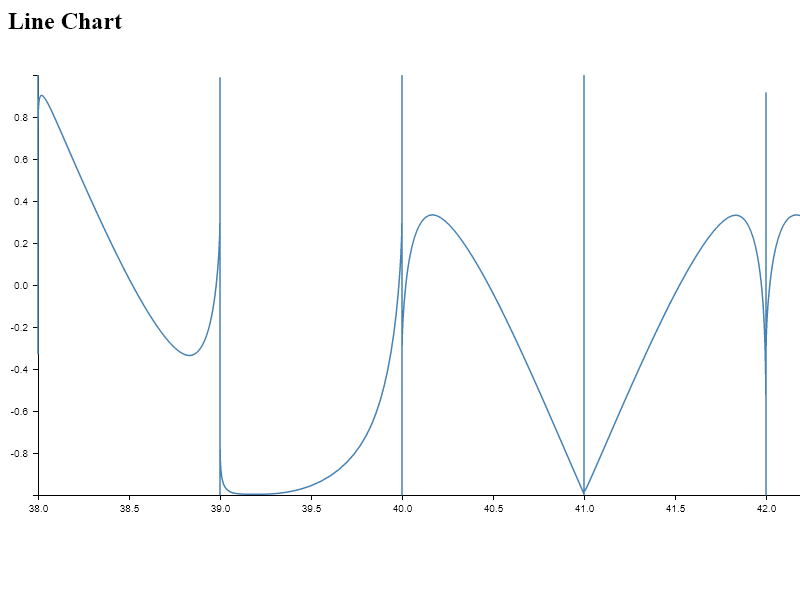
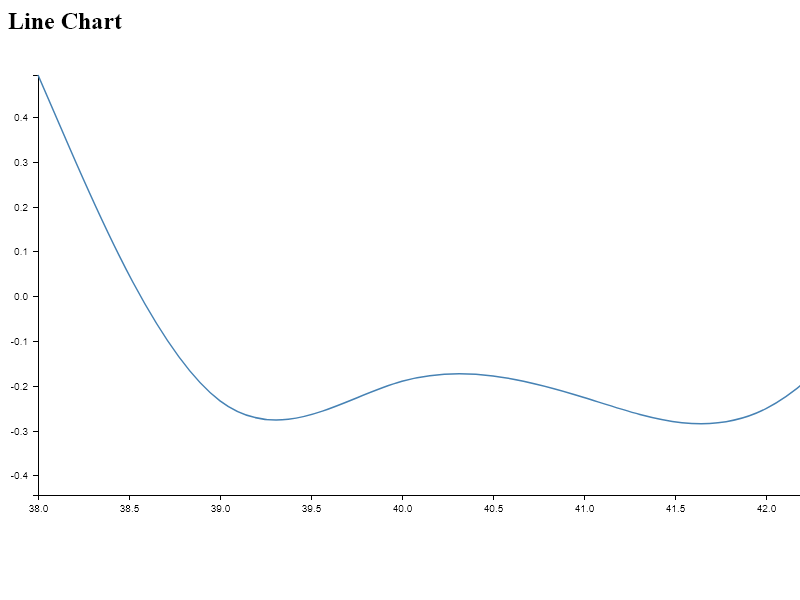
sql aggregation done

diff --git a/output/sentimentline.html b/output/sentimentline.html
@@ -1,5 +1,5 @@
 <html><head></head><body><div id="container">
       <h2>Line Chart</h2>
-      <div id="chart"><svg xmlns="http://www.w3.org/2000/svg" width="960" height="500"><g transform="translate(30, 20)"><g><g transform="translate(0, 420)" fill="none" font-size="10" font-family="sans-serif" text-anchor="middle"><path class="domain" stroke="#000" d="M0.5000,5V0.5000H910.5000V5"></path><g class="tick" opacity="1" transform="translate(0.5,0)"><line stroke="#000" y2="5"></line><text fill="#000" y="10" dy="0.71em">38.0</text></g><g class="tick" opacity="1" transform="translate(91.5,0)"><line stroke="#000" y2="5"></line><text fill="#000" y="10" dy="0.71em">38.5</text></g><g class="tick" opacity="1" transform="translate(182.5,0)"><line stroke="#000" y2="5"></line><text fill="#000" y="10" dy="0.71em">39.0</text></g><g class="tick" opacity="1" transform="translate(273.5,0)"><line stroke="#000" y2="5"></line><text fill="#000" y="10" dy="0.71em">39.5</text></g><g class="tick" opacity="1" transform="translate(364.5,0)"><line stroke="#000" y2="5"></line><text fill="#000" y="10" dy="0.71em">40.0</text></g><g class="tick" opacity="1" transform="translate(455.5,0)"><line stroke="#000" y2="5"></line><text fill="#000" y="10" dy="0.71em">40.5</text></g><g class="tick" opacity="1" transform="translate(546.5,0)"><line stroke="#000" y2="5"></line><text fill="#000" y="10" dy="0.71em">41.0</text></g><g class="tick" opacity="1" transform="translate(637.5,0)"><line stroke="#000" y2="5"></line><text fill="#000" y="10" dy="0.71em">41.5</text></g><g class="tick" opacity="1" transform="translate(728.5,0)"><line stroke="#000" y2="5"></line><text fill="#000" y="10" dy="0.71em">42.0</text></g><g class="tick" opacity="1" transform="translate(819.5,0)"><line stroke="#000" y2="5"></line><text fill="#000" y="10" dy="0.71em">42.5</text></g><g class="tick" opacity="1" transform="translate(910.5,0)"><line stroke="#000" y2="5"></line><text fill="#000" y="10" dy="0.71em">43.0</text></g></g><g fill="none" font-size="10" font-family="sans-serif" text-anchor="end"><path class="domain" stroke="#000" d="M-5,420.5000H0.5000V0.5000H-5"></path><g class="tick" opacity="1" transform="translate(0,378.5)"><line stroke="#000" x2="-5"></line><text fill="#000" x="-10" dy="0.32em">-0.8</text></g><g class="tick" opacity="1" transform="translate(0,336.5)"><line stroke="#000" x2="-5"></line><text fill="#000" x="-10" dy="0.32em">-0.6</text></g><g class="tick" opacity="1" transform="translate(0,294.5)"><line stroke="#000" x2="-5"></line><text fill="#000" x="-10" dy="0.32em">-0.4</text></g><g class="tick" opacity="1" transform="translate(0,252.5)"><line stroke="#000" x2="-5"></line><text fill="#000" x="-10" dy="0.32em">-0.2</text></g><g class="tick" opacity="1" transform="translate(0,210.5)"><line stroke="#000" x2="-5"></line><text fill="#000" x="-10" dy="0.32em">0.0</text></g><g class="tick" opacity="1" transform="translate(0,168.5)"><line stroke="#000" x2="-5"></line><text fill="#000" x="-10" dy="0.32em">0.2</text></g><g class="tick" opacity="1" transform="translate(0,126.5)"><line stroke="#000" x2="-5"></line><text fill="#000" x="-10" dy="0.32em">0.4</text></g><g class="tick" opacity="1" transform="translate(0,84.5)"><line stroke="#000" x2="-5"></line><text fill="#000" x="-10" dy="0.32em">0.6</text></g><g class="tick" opacity="1" transform="translate(0,42.5)"><line stroke="#000" x2="-5"></line><text fill="#000" x="-10" dy="0.32em">0.8</text></g></g><g fill="none" stroke-width="1.5"><path stroke="steelblue" d="M0,0L0,69.8333C0,139.6667,0,279.3333,0,279.3333C0,279.3333,0,139.6667,0,70.8333C0,2,0,4,30.3333,73.8333C60.6667,143.6667,121.3333,281.3333,151.6667,280.5000C182,279.6667,182,140.3333,182,140.1667C182,140,182,279,182,348.8333C182,418.6667,182,419.3333,182,350C182,280.6667,182,141.3333,182,141.3333C182,141.3333,182,280.6667,182,350.1667C182,419.6667,182,419.3333,182,419.1667C182,419,182,419,182,419C182,419,182,419,182,419C182,419,182,419,182,419.1667C182,419.3333,182,419.6667,182,419.6667C182,419.6667,182,419.3333,182,419.3333C182,419.3333,182,419.6667,182,419.5000C182,419.3333,182,418.6667,182,348.6667C182,278.6667,182,139.3333,182,139.5000C182,139.6667,182,279.3333,182,348.8333C182,418.3333,182,417.6667,182,417.8333C182,418,182,419,182,419.5000C182,420,182,420,182,420C182,420,182,420,182,420C182,420,182,420,182,420C182,420,182,420,182,350C182,280,182,140,182,70.6667C182,1.3333,182,2.6667,182,2.8333C182,3,182,2,182,71.3333C182,140.6667,182,280.3333,182,350.1667C182,420,182,420,182,420C182,420,182,420,182,420C182,420,182,420,182,420C182,420,182,420,182,420C182,420,182,420,182,419.8333C182,419.6667,182,419.3333,182,418.8333C182,418.3333,182,417.6667,182,417.6667C182,417.6667,182,418.3333,182,418.6667C182,419,182,419,182,349.6667C182,280.3333,182,141.6667,182,141.6667C182,141.6667,182,280.3333,182,349.6667C182,419,182,419,182,418.8333C182,418.6667,182,418.3333,182,418.5000C182,418.6667,182,419.3333,182,349.6667C182,280,182,140,182,140C182,140,182,280,182,280C182,280,182,140,182,70C182,0,182,0,182,69.8333C182,139.6667,182,279.3333,182,349.3333C182,419.3333,182,419.6667,182,419.3333C182,419,182,418,182,348C182,278,182,139,182,138.8333C182,138.6667,182,277.3333,182,277.3333C182,277.3333,182,138.6667,182,139.3333C182,140,182,280,182,280.1667C182,280.3333,182,140.6667,182,70.8333C182,1,182,1,182,10.5000C182,20,182,39,182,40.1667C182,41.3333,182,24.6667,182,84.8333C182,145,182,282,182,350.5000C182,419,182,419,182,419.1667C182,419.3333,182,419.6667,182,350.5000C182,281.3333,182,142.6667,182,142.6667C182,142.6667,182,281.3333,182,350.6667C182,420,182,420,182,350C182,280,182,140,182,139.8333C182,139.6667,182,279.3333,182,349.1667C182,419,182,419,182,418.6667C182,418.3333,182,417.6667,182,347.8333C182,278,182,139,182,139C182,139,182,278,182,348C182,418,182,419,212.3333,419.3333C242.6667,419.6667,303.3333,419.3333,333.6667,349.3333C364,279.3333,364,139.6667,364,139.5000C364,139.3333,364,278.6667,364,278.6667C364,278.6667,364,139.3333,364,139.6667C364,140,364,280,364,280C364,280,364,140,364,70C364,0,364,0,364,69.6667C364,139.3333,364,278.6667,364,347.6667C364,416.6667,364,415.3333,364,415.6667C364,416,364,418,364,418.8333C364,419.6667,364,419.3333,364,349.3333C364,279.3333,364,139.6667,364,139.8333C364,140,364,280,364,350C364,420,364,420,364,419.8333C364,419.6667,364,419.3333,364,419C364,418.6667,364,418.3333,364,348.8333C364,279.3333,364,140.6667,364,72.6667C364,4.6667,364,7.3333,364,76.8333C364,146.3333,364,282.6667,364,351C364,419.3333,364,419.6667,364,349.8333C364,280,364,140,364,138.6667C364,137.3333,364,274.6667,364,344.3333C364,414,364,416,364,417.3333C364,418.6667,364,419.3333,364,419.5000C364,419.6667,364,419.3333,364,419.3333C364,419.3333,364,419.6667,364,419.5000C364,419.3333,364,418.6667,364,418.6667C364,418.6667,364,419.3333,364,351C364,282.6667,364,145.3333,364,75.3333C364,5.3333,364,2.6667,364,1.5000C364,0.3333,364,0.6667,364,0.8333C364,1,364,1,364,5.1667C364,9.3333,364,17.6667,364,17.5000C364,17.3333,364,8.6667,364,4.8333C364,1,364,2,364,71.5000C364,141,364,279,364,348.3333C364,417.6667,364,418.3333,364,418.8333C364,419.3333,364,419.6667,364,349.8333C364,280,364,140,364,70.1667C364,0.3333,364,0.6667,364,70.6667C364,140.6667,364,280.3333,364,350.1667C364,420,364,420,364,350C364,280,364,140,364,140C364,140,364,280,364,350C364,420,364,420,364,420C364,420,364,420,364,420C364,420,364,420,364,420C364,420,364,420,364,419.6667C364,419.3333,364,418.6667,364,348.6667C364,278.6667,364,139.3333,364,69.8333C364,0.3333,364,0.6667,364,70.6667C364,140.6667,364,280.3333,364,280.1667C364,280,364,140,364,70C364,0,364,0,364,1C364,2,364,4,364,4C364,4,364,2,364,1.5000C364,1,364,2,364,2C364,2,364,1,364,70.1667C364,139.3333,364,278.6667,364,278.8333C364,279,364,140,364,140.3333C364,140.6667,364,280.3333,364,350C364,419.6667,364,419.3333,364,419.3333C364,419.3333,364,419.6667,364,350.1667C364,280.6667,364,141.3333,364,141.3333C364,141.3333,364,280.6667,364,280.3333C364,280,364,140,364,140C364,140,364,280,364,280C364,280,364,140,394.3333,139.8333C424.6667,139.6667,485.3333,279.3333,515.6667,349.1667C546,419,546,419,546,419C546,419,546,419,546,349.1667C546,279.3333,546,139.6667,546,70.5000C546,1.3333,546,2.6667,546,72.6667C546,142.6667,546,281.3333,546,281C546,280.6667,546,141.3333,546,71.5000C546,1.6667,546,1.3333,546,71C546,140.6667,546,280.3333,546,350.1667C546,420,546,420,546,420C546,420,546,420,546,420C546,420,546,420,546,419.8333C546,419.6667,546,419.3333,546,349.3333C546,279.3333,546,139.6667,546,139.8333C546,140,546,280,546,349.8333C546,419.6667,546,419.3333,546,419.1667C546,419,546,419,546,349.1667C546,279.3333,546,139.6667,546,139.6667C546,139.6667,546,279.3333,546,279.8333C546,280.3333,546,141.6667,546,71.8333C546,2,546,1,546,0.6667C546,0.3333,546,0.6667,546,0.8333C546,1,546,1,546,70.5000C546,140,546,279,546,278.8333C546,278.6667,546,139.3333,546,69.8333C546,0.3333,546,0.6667,546,70.5000C546,140.3333,546,279.6667,546,349.3333C546,419,546,419,546,349.6667C546,280.3333,546,141.6667,546,141.8333C546,142,546,281,546,350.1667C546,419.3333,546,418.6667,546,364.1667C546,309.6667,546,201.3333,546,201.5000C546,201.6667,546,310.3333,546,364.8333C546,419.3333,546,419.6667,546,419.6667C546,419.6667,546,419.3333,546,349.5000C546,279.6667,546,140.3333,546,140.5000C546,140.6667,546,280.3333,546,350C546,419.6667,546,419.3333,546,349.3333C546,279.3333,546,139.6667,546,139.8333C546,140,546,280,546,280.1667C546,280.3333,546,140.6667,546,140.6667C546,140.6667,546,280.3333,546,280.5000C546,280.6667,546,141.3333,546,72C546,2.6667,546,3.3333,546,3C546,2.6667,546,1.3333,546,70.6667C546,140,546,280,546,350C546,420,546,420,546,418.5000C546,417,546,414,546,414C546,414,546,417,546,348.5000C546,280,546,140,546,71.1667C546,2.3333,546,4.6667,546,73.1667C546,141.6667,546,276.3333,546,345C546,413.6667,546,416.3333,546,417C546,417.6667,546,416.3333,546,346.5000C546,276.6667,546,138.3333,546,69.5000C546,0.6667,546,1.3333,546,71.3333C546,141.3333,546,280.6667,546,350C546,419.3333,546,418.6667,546,413.1667C546,407.6667,546,397.3333,546,397.6667C546,398,546,409,546,414.3333C546,419.6667,546,419.3333,576.3333,349.5000C606.6667,279.6667,667.3333,140.3333,697.6667,140.1667C728,140,728,279,728,348.6667C728,418.3333,728,418.6667,728,418.8333C728,419,728,419,728,349.1667C728,279.3333,728,139.6667,728,139.1667C728,138.6667,728,277.3333,728,278C728,278.6667,728,141.3333,728,141.5000C728,141.6667,728,279.3333,728,348.6667C728,418,728,419,728,419.5000C728,420,728,420,728,350C728,280,728,140,728,140C728,140,728,280,728,350C728,420,728,420,728,420C728,420,728,420,728,419.8333C728,419.6667,728,419.3333,728,419.3333C728,419.3333,728,419.6667,728,419.8333C728,420,728,420,728,350C728,280,728,140,728,70.1667C728,0.3333,728,0.6667,728,70.6667C728,140.6667,728,280.3333,728,350C728,419.6667,728,419.3333,728,419.3333C728,419.3333,728,419.6667,728,419.8333C728,420,728,420,728,419.8333C728,419.6667,728,419.3333,728,349.3333C728,279.3333,728,139.6667,728,139.8333C728,140,728,280,728,349.8333C728,419.6667,728,419.3333,728,349.6667C728,280,728,141,728,72C728,3,728,4,728,73.6667C728,143.3333,728,281.6667,728,281.1667C728,280.6667,728,141.3333,728,71.6667C728,2,728,2,728,71.5000C728,141,728,280,728,280C728,280,728,141,728,71.1667C728,1.3333,728,0.6667,728,70.3333C728,140,728,280,728,350C728,420,728,420,728,419.8333C728,419.6667,728,419.3333,728,419.3333C728,419.3333,728,419.6667,728,419.8333C728,420,728,420,728,350.1667C728,280.3333,728,140.6667,728,140.6667C728,140.6667,728,280.3333,728,350C728,419.6667,728,419.3333,728,419.3333C728,419.3333,728,419.6667,728,419.8333C728,420,728,420,728,420C728,420,728,420,728,420C728,420,728,420,728,351C728,282,728,144,728,143.8333C728,143.6667,728,281.3333,728,280.6667C728,280,728,141,728,72C728,3,728,4,728,73.3333C728,142.6667,728,280.3333,728,279.6667C728,279,728,140,728,140C728,140,728,279,728,348.5000C728,418,728,418,728,418.1667C728,418.3333,728,418.6667,728,412.1667C728,405.6667,728,392.3333,728,392.1667C728,392,728,405,728,411.8333C728,418.6667,728,419.3333,728,419.5000C728,419.6667,728,419.3333,728,419.3333C728,419.3333,728,419.6667,728,350C728,280.3333,728,140.6667,728,140.6667C728,140.6667,728,280.3333,728,280.1667C728,280,728,140,758.3333,139.8333C788.6667,139.6667,849.3333,279.3333,879.6667,349.3333C910,419.3333,910,419.6667,910,350C910,280.3333,910,140.6667,910,70.6667C910,0.6667,910,0.3333,910,0.1667C910,0,910,0,910,0L910,0"></path></g></g></g></svg></div>
+      <div id="chart"><svg xmlns="http://www.w3.org/2000/svg" width="960" height="500"><g transform="translate(30, 20)"><g><g transform="translate(0, 420)" fill="none" font-size="10" font-family="sans-serif" text-anchor="middle"><path class="domain" stroke="#000" d="M0.5000,5V0.5000H910.5000V5"></path><g class="tick" opacity="1" transform="translate(0.5,0)"><line stroke="#000" y2="5"></line><text fill="#000" y="10" dy="0.71em">38.0</text></g><g class="tick" opacity="1" transform="translate(91.5,0)"><line stroke="#000" y2="5"></line><text fill="#000" y="10" dy="0.71em">38.5</text></g><g class="tick" opacity="1" transform="translate(182.5,0)"><line stroke="#000" y2="5"></line><text fill="#000" y="10" dy="0.71em">39.0</text></g><g class="tick" opacity="1" transform="translate(273.5,0)"><line stroke="#000" y2="5"></line><text fill="#000" y="10" dy="0.71em">39.5</text></g><g class="tick" opacity="1" transform="translate(364.5,0)"><line stroke="#000" y2="5"></line><text fill="#000" y="10" dy="0.71em">40.0</text></g><g class="tick" opacity="1" transform="translate(455.5,0)"><line stroke="#000" y2="5"></line><text fill="#000" y="10" dy="0.71em">40.5</text></g><g class="tick" opacity="1" transform="translate(546.5,0)"><line stroke="#000" y2="5"></line><text fill="#000" y="10" dy="0.71em">41.0</text></g><g class="tick" opacity="1" transform="translate(637.5,0)"><line stroke="#000" y2="5"></line><text fill="#000" y="10" dy="0.71em">41.5</text></g><g class="tick" opacity="1" transform="translate(728.5,0)"><line stroke="#000" y2="5"></line><text fill="#000" y="10" dy="0.71em">42.0</text></g><g class="tick" opacity="1" transform="translate(819.5,0)"><line stroke="#000" y2="5"></line><text fill="#000" y="10" dy="0.71em">42.5</text></g><g class="tick" opacity="1" transform="translate(910.5,0)"><line stroke="#000" y2="5"></line><text fill="#000" y="10" dy="0.71em">43.0</text></g></g><g fill="none" font-size="10" font-family="sans-serif" text-anchor="end"><path class="domain" stroke="#000" d="M-5,420.5000H0.5000V0.5000H-5"></path><g class="tick" opacity="1" transform="translate(0,400.5)"><line stroke="#000" x2="-5"></line><text fill="#000" x="-10" dy="0.32em">-0.4</text></g><g class="tick" opacity="1" transform="translate(0,356.5)"><line stroke="#000" x2="-5"></line><text fill="#000" x="-10" dy="0.32em">-0.3</text></g><g class="tick" opacity="1" transform="translate(0,311.5)"><line stroke="#000" x2="-5"></line><text fill="#000" x="-10" dy="0.32em">-0.2</text></g><g class="tick" opacity="1" transform="translate(0,266.5)"><line stroke="#000" x2="-5"></line><text fill="#000" x="-10" dy="0.32em">-0.1</text></g><g class="tick" opacity="1" transform="translate(0,221.5)"><line stroke="#000" x2="-5"></line><text fill="#000" x="-10" dy="0.32em">0.0</text></g><g class="tick" opacity="1" transform="translate(0,176.5)"><line stroke="#000" x2="-5"></line><text fill="#000" x="-10" dy="0.32em">0.1</text></g><g class="tick" opacity="1" transform="translate(0,132.5)"><line stroke="#000" x2="-5"></line><text fill="#000" x="-10" dy="0.32em">0.2</text></g><g class="tick" opacity="1" transform="translate(0,87.5)"><line stroke="#000" x2="-5"></line><text fill="#000" x="-10" dy="0.32em">0.3</text></g><g class="tick" opacity="1" transform="translate(0,42.5)"><line stroke="#000" x2="-5"></line><text fill="#000" x="-10" dy="0.32em">0.4</text></g></g><g fill="none" stroke-width="1.5"><path stroke="steelblue" d="M0,0L30.3333,70C60.6667,140,121.3333,280,182,325.8333C242.6667,371.6667,303.3333,323.3333,364,306.3333C424.6667,289.3333,485.3333,303.6667,546,322.5000C606.6667,341.3333,667.3333,364.6667,728,333.6667C788.6667,302.6667,849.3333,217.3333,879.6667,174.6667L910,132"></path></g></g></g></svg></div>
     </div>
   </body></html>

diff --git a/index.js b/index.js
@@ -1,10 +1,6 @@
 function main(datasetId = "my_dataset", tableId = "my_table") {
-  // [START bigquery_get_table]
-  // Import the Google Cloud client library
   const { BigQuery } = require("@google-cloud/bigquery");
   const bigquery = new BigQuery();
-  // const D3Node = require('d3-node')
-  // const d3n = new D3Node()      // initializes D3 with container element
   const d3 = require("d3-node")().d3;
   const d3nBar = require("d3node-barchart");
   const d3nLine = require("d3node-linechart");
@@ -13,11 +9,6 @@ function main(datasetId = "my_dataset", tableId = "my_table") {
   const fs = require("fs");
 
   async function getTable() {
-    // Retrieves table named "my_table" in "my_dataset".
-
-    /**
-     * TODO(developer): Uncomment the following lines before running the sample
-     */
     const projectId = "starry-argon-368412";
     const datasetId = "news";
     const tableId = "predictions";
@@ -26,46 +17,92 @@ function main(datasetId = "my_dataset", tableId = "my_table") {
     const dataset = bigquery.dataset(datasetId);
     const [table] = await dataset.table(tableId).get();
 
-    const sqlQuery = `select subquery.week as key, avg(subquery.sentimentscore) as value from (SELECT 
-    extract(week from timestamp_seconds(cast(timestamp as int64))) as week, 
-    sentiment, cast(timestamp as int64) as intval,
-    case sentiment
-      when 'POSITIVE' then score
-      else -1*score
-      end
-      as sentimentscore
-      FROM \`${projectId}.${datasetId}.${tableId}\` order by key asc) as subquery group by week`;
+    const dailyQuery = `with
+      sentimentScores as (
+        SELECT 
+          extract(dayofyear from timestamp_seconds(cast(timestamp as int64))) as dayofyear, 
+          sentiment, cast(timestamp as int64) as intval,
+          case sentiment
+            when 'POSITIVE' then score
+            else -1*score
+            end
+            as sentimentscore
+            FROM \`${projectId}.${datasetId}.${tableId}\` order by dayofyear asc)
+    select dayofyear as key, avg(sentimentscore) as value from sentimentScores group by dayofyear order by dayofyear asc 
+            `;
 
-    const options = {
-      query: sqlQuery,
+    const weeklyQuery = `with
+      sentimentScores as (
+        SELECT 
+          extract(week from timestamp_seconds(cast(timestamp as int64))) as week, 
+          sentiment, cast(timestamp as int64) as intval,
+          case sentiment
+            when 'POSITIVE' then score
+            else -1*score
+            end
+            as sentimentscore
+            FROM \`${projectId}.${datasetId}.${tableId}\` order by week asc)
+    select week as key, avg(sentimentscore) as value from sentimentScores group by week order by week asc 
+            `;
+
+    const monthlyQuery = `with
+      sentimentScores as (
+        SELECT 
+          extract(month from timestamp_seconds(cast(timestamp as int64))) as month, 
+          sentiment, cast(timestamp as int64) as intval,
+          case sentiment
+            when 'POSITIVE' then score
+            else -1*score
+            end
+            as sentimentscore
+            FROM \`${projectId}.${datasetId}.${tableId}\` order by month asc)
+    select month as key, avg(sentimentscore) as value from sentimentScores group by month order by month asc 
+            `;
+
+    const dailyOptions = {
+      query: dailyQuery,
       // Location must match that of the dataset(s) referenced in the query.
     };
 
-    const [rows] = await bigquery.query(options);
-    console.log("Table:");
-    //console.log(table.getRows());
-    console.log(rows);
-    // for (let i = 0; i < rows.length; i++){
-    //   timestamps[i] = rows[i]['timestamp']
-    //   sentiments[i] = rows[i]['sentiment']
-    // }
-    // console.log(timestamps);
-    //data = d3.json(rows)
-    //console.log(typeof data)
-    // const path = `data/bardata.csv`;
-    // //const data = [{ name: 'Stevie', id: 10 }, { name: 'Ray', id: 20 }];
-    // const options2 = { headers: true, quoteColumns: true };
+    const weeklyOptions = {
+      query: weeklyQuery,
+      // Location must match that of the dataset(s) referenced in the query.
+    };
 
-    // writeToPath(path, rows, options)
-    //   .on("error", (err) => console.error(err))
-    //   .on("finish", () => console.log("Done writing."));
+    const monthlyOptions = {
+      query: monthlyQuery,
+      // Location must match that of the dataset(s) referenced in the query.
+    };
 
-    // const csvString = fs.readFileSync("data/bardata.csv").toString();
-    // const data = d3.csvParse(csvString);
-    //output('./output/sentimentbar', d3nBar({ data: data }));
-    output("output/sentimentline", d3nLine({ data: rows }));
+    const [daily] = await bigquery.query(dailyOptions);
+    // console.log("daily:");
+    // //console.log(table.getRows());
+    // console.log(daily);
+    const [weekly] = await bigquery.query(weeklyOptions);
+    const [monthly] = await bigquery.query(monthlyOptions);
+
+    dailyContainer =
+      '<div id="container"><h2>Daily average sentiment (day of year)</h2><div id="chart"></div></div>';
+    weeklyContainer =
+      '<div id="container"><h2>Weekly average sentiment</h2><div id="chart"></div></div>';
+    monthlyContainer =
+      '<div id="container"><h2>Monthly average sentiment (month number)</h2><div id="chart"></div></div>';
+    // dailyStyle =
+    //   { xAxis: 'Sentiment score', yAxis: 'Day of year' };
+
+    output(
+      "output/sentimentdaily",
+      d3nLine({ data: daily, container: dailyContainer })
+    );
+    output(
+      "output/sentimentweekly",
+      d3nLine({ data: weekly, container: weeklyContainer })
+    );
+    output(
+      "output/sentimentmonthly",
+      d3nLine({ data: monthly, container: monthlyContainer })
+    );
   }
   getTable();
-  // [END bigquery_get_table]
 }
 main(...process.argv.slice(2));

diff --git a/output/sentimentdaily.html b/output/sentimentdaily.html
@@ -1,0 +1,1 @@
+<html><head></head><body><div id="container"><h2>Daily average sentiment (day of year)</h2><div id="chart"><svg xmlns="http://www.w3.org/2000/svg" width="960" height="500"><g transform="translate(30, 20)"><g><g transform="translate(0, 420)" fill="none" font-size="10" font-family="sans-serif" text-anchor="middle"><path class="domain" stroke="#000" d="M0.5000,5V0.5000H910.5000V5"></path><g class="tick" opacity="1" transform="translate(31.5,0)"><line stroke="#000" y2="5"></line><text fill="#000" y="10" dy="0.71em">268</text></g><g class="tick" opacity="1" transform="translate(94.5,0)"><line stroke="#000" y2="5"></line><text fill="#000" y="10" dy="0.71em">270</text></g><g class="tick" opacity="1" transform="translate(157.5,0)"><line stroke="#000" y2="5"></line><text fill="#000" y="10" dy="0.71em">272</text></g><g class="tick" opacity="1" transform="translate(220.5,0)"><line stroke="#000" y2="5"></line><text fill="#000" y="10" dy="0.71em">274</text></g><g class="tick" opacity="1" transform="translate(282.5,0)"><line stroke="#000" y2="5"></line><text fill="#000" y="10" dy="0.71em">276</text></g><g class="tick" opacity="1" transform="translate(345.5,0)"><line stroke="#000" y2="5"></line><text fill="#000" y="10" dy="0.71em">278</text></g><g class="tick" opacity="1" transform="translate(408.5,0)"><line stroke="#000" y2="5"></line><text fill="#000" y="10" dy="0.71em">280</text></g><g class="tick" opacity="1" transform="translate(471.5,0)"><line stroke="#000" y2="5"></line><text fill="#000" y="10" dy="0.71em">282</text></g><g class="tick" opacity="1" transform="translate(533.5,0)"><line stroke="#000" y2="5"></line><text fill="#000" y="10" dy="0.71em">284</text></g><g class="tick" opacity="1" transform="translate(596.5,0)"><line stroke="#000" y2="5"></line><text fill="#000" y="10" dy="0.71em">286</text></g><g class="tick" opacity="1" transform="translate(659.5,0)"><line stroke="#000" y2="5"></line><text fill="#000" y="10" dy="0.71em">288</text></g><g class="tick" opacity="1" transform="translate(722.5,0)"><line stroke="#000" y2="5"></line><text fill="#000" y="10" dy="0.71em">290</text></g><g class="tick" opacity="1" transform="translate(784.5,0)"><line stroke="#000" y2="5"></line><text fill="#000" y="10" dy="0.71em">292</text></g><g class="tick" opacity="1" transform="translate(847.5,0)"><line stroke="#000" y2="5"></line><text fill="#000" y="10" dy="0.71em">294</text></g><g class="tick" opacity="1" transform="translate(910.5,0)"><line stroke="#000" y2="5"></line><text fill="#000" y="10" dy="0.71em">296</text></g></g><g fill="none" font-size="10" font-family="sans-serif" text-anchor="end"><path class="domain" stroke="#000" d="M-5,420.5000H0.5000V0.5000H-5"></path><g class="tick" opacity="1" transform="translate(0,365.5)"><line stroke="#000" x2="-5"></line><text fill="#000" x="-10" dy="0.32em">-0.8</text></g><g class="tick" opacity="1" transform="translate(0,308.5)"><line stroke="#000" x2="-5"></line><text fill="#000" x="-10" dy="0.32em">-0.6</text></g><g class="tick" opacity="1" transform="translate(0,252.5)"><line stroke="#000" x2="-5"></line><text fill="#000" x="-10" dy="0.32em">-0.4</text></g><g class="tick" opacity="1" transform="translate(0,196.5)"><line stroke="#000" x2="-5"></line><text fill="#000" x="-10" dy="0.32em">-0.2</text></g><g class="tick" opacity="1" transform="translate(0,139.5)"><line stroke="#000" x2="-5"></line><text fill="#000" x="-10" dy="0.32em">0.0</text></g><g class="tick" opacity="1" transform="translate(0,83.5)"><line stroke="#000" x2="-5"></line><text fill="#000" x="-10" dy="0.32em">0.2</text></g><g class="tick" opacity="1" transform="translate(0,26.5)"><line stroke="#000" x2="-5"></line><text fill="#000" x="-10" dy="0.32em">0.4</text></g></g><g fill="none" stroke-width="1.5"><path stroke="steelblue" d="M0,0L5.1667,32.5000C10.3333,65,20.6667,130,31.1667,200C41.6667,270,52.3333,345,62.8333,359.1667C73.3333,373.3333,83.6667,326.6667,94.1667,317.3333C104.6667,308,115.3333,336,125.8333,319.1667C136.3333,302.3333,146.6667,240.6667,157,204C167.3333,167.3333,177.6667,155.6667,188.1667,180C198.6667,204.3333,209.3333,264.6667,219.8333,257.1667C230.3333,249.6667,240.6667,174.3333,251,164.6667C261.3333,155,271.6667,211,282.1667,252.5000C292.6667,294,303.3333,321,313.8333,287.6667C324.3333,254.3333,334.6667,160.6667,345.1667,139.3333C355.6667,118,366.3333,169,376.8333,170.3333C387.3333,171.6667,397.6667,123.3333,408,109.8333C418.3333,96.3333,428.6667,117.6667,439.1667,144.1667C449.6667,170.6667,460.3333,202.3333,470.8333,218C481.3333,233.6667,491.6667,233.3333,502,221.1667C512.3333,209,522.6667,185,533.1667,165.1667C543.6667,145.3333,554.3333,129.6667,564.8333,141.6667C575.3333,153.6667,585.6667,193.3333,596.1667,206.3333C606.6667,219.3333,617.3333,205.6667,627.8333,235.3333C638.3333,265,648.6667,338,659,352.5000C669.3333,367,679.6667,323,690.1667,262C700.6667,201,711.3333,123,721.8333,127.6667C732.3333,132.3333,742.6667,219.6667,753,262.1667C763.3333,304.6667,773.6667,302.3333,784.1667,290C794.6667,277.6667,805.3333,255.3333,815.8333,246C826.3333,236.6667,836.6667,240.3333,847.1667,224.6667C857.6667,209,868.3333,174,878.8333,147.1667C889.3333,120.3333,899.6667,101.6667,904.8333,92.3333L910,83"></path></g></g></g></svg></div></div></body></html>

diff --git a/output/sentimentmonthly.html b/output/sentimentmonthly.html
@@ -1,0 +1,1 @@
+<html><head></head><body><div id="container"><h2>Monthly average sentiment (month number)</h2><div id="chart"><svg xmlns="http://www.w3.org/2000/svg" width="960" height="500"><g transform="translate(30, 20)"><g><g transform="translate(0, 420)" fill="none" font-size="10" font-family="sans-serif" text-anchor="middle"><path class="domain" stroke="#000" d="M0.5000,5V0.5000H910.5000V5"></path><g class="tick" opacity="1" transform="translate(0.5,0)"><line stroke="#000" y2="5"></line><text fill="#000" y="10" dy="0.71em">9.0</text></g><g class="tick" opacity="1" transform="translate(91.5,0)"><line stroke="#000" y2="5"></line><text fill="#000" y="10" dy="0.71em">9.1</text></g><g class="tick" opacity="1" transform="translate(182.5,0)"><line stroke="#000" y2="5"></line><text fill="#000" y="10" dy="0.71em">9.2</text></g><g class="tick" opacity="1" transform="translate(273.5,0)"><line stroke="#000" y2="5"></line><text fill="#000" y="10" dy="0.71em">9.3</text></g><g class="tick" opacity="1" transform="translate(364.5,0)"><line stroke="#000" y2="5"></line><text fill="#000" y="10" dy="0.71em">9.4</text></g><g class="tick" opacity="1" transform="translate(455.5,0)"><line stroke="#000" y2="5"></line><text fill="#000" y="10" dy="0.71em">9.5</text></g><g class="tick" opacity="1" transform="translate(546.5,0)"><line stroke="#000" y2="5"></line><text fill="#000" y="10" dy="0.71em">9.6</text></g><g class="tick" opacity="1" transform="translate(637.5,0)"><line stroke="#000" y2="5"></line><text fill="#000" y="10" dy="0.71em">9.7</text></g><g class="tick" opacity="1" transform="translate(728.5,0)"><line stroke="#000" y2="5"></line><text fill="#000" y="10" dy="0.71em">9.8</text></g><g class="tick" opacity="1" transform="translate(819.5,0)"><line stroke="#000" y2="5"></line><text fill="#000" y="10" dy="0.71em">9.9</text></g><g class="tick" opacity="1" transform="translate(910.5,0)"><line stroke="#000" y2="5"></line><text fill="#000" y="10" dy="0.71em">10.0</text></g></g><g fill="none" font-size="10" font-family="sans-serif" text-anchor="end"><path class="domain" stroke="#000" d="M-5,420.5000H0.5000V0.5000H-5"></path><g class="tick" opacity="1" transform="translate(0,397.5)"><line stroke="#000" x2="-5"></line><text fill="#000" x="-10" dy="0.32em">-0.36</text></g><g class="tick" opacity="1" transform="translate(0,365.5)"><line stroke="#000" x2="-5"></line><text fill="#000" x="-10" dy="0.32em">-0.35</text></g><g class="tick" opacity="1" transform="translate(0,333.5)"><line stroke="#000" x2="-5"></line><text fill="#000" x="-10" dy="0.32em">-0.34</text></g><g class="tick" opacity="1" transform="translate(0,301.5)"><line stroke="#000" x2="-5"></line><text fill="#000" x="-10" dy="0.32em">-0.33</text></g><g class="tick" opacity="1" transform="translate(0,269.5)"><line stroke="#000" x2="-5"></line><text fill="#000" x="-10" dy="0.32em">-0.32</text></g><g class="tick" opacity="1" transform="translate(0,237.5)"><line stroke="#000" x2="-5"></line><text fill="#000" x="-10" dy="0.32em">-0.31</text></g><g class="tick" opacity="1" transform="translate(0,205.5)"><line stroke="#000" x2="-5"></line><text fill="#000" x="-10" dy="0.32em">-0.30</text></g><g class="tick" opacity="1" transform="translate(0,173.5)"><line stroke="#000" x2="-5"></line><text fill="#000" x="-10" dy="0.32em">-0.29</text></g><g class="tick" opacity="1" transform="translate(0,141.5)"><line stroke="#000" x2="-5"></line><text fill="#000" x="-10" dy="0.32em">-0.28</text></g><g class="tick" opacity="1" transform="translate(0,109.5)"><line stroke="#000" x2="-5"></line><text fill="#000" x="-10" dy="0.32em">-0.27</text></g><g class="tick" opacity="1" transform="translate(0,77.5)"><line stroke="#000" x2="-5"></line><text fill="#000" x="-10" dy="0.32em">-0.26</text></g><g class="tick" opacity="1" transform="translate(0,45.5)"><line stroke="#000" x2="-5"></line><text fill="#000" x="-10" dy="0.32em">-0.25</text></g><g class="tick" opacity="1" transform="translate(0,13.5)"><line stroke="#000" x2="-5"></line><text fill="#000" x="-10" dy="0.32em">-0.24</text></g></g><g fill="none" stroke-width="1.5"><path stroke="steelblue" d="M0,420L910,0"></path></g></g></g></svg></div></div></body></html>

diff --git a/output/sentimentweekly.html b/output/sentimentweekly.html
@@ -1,0 +1,1 @@
+<html><head></head><body><div id="container"><h2>Weekly average sentiment</h2><div id="chart"><svg xmlns="http://www.w3.org/2000/svg" width="960" height="500"><g transform="translate(30, 20)"><g><g transform="translate(0, 420)" fill="none" font-size="10" font-family="sans-serif" text-anchor="middle"><path class="domain" stroke="#000" d="M0.5000,5V0.5000H910.5000V5"></path><g class="tick" opacity="1" transform="translate(0.5,0)"><line stroke="#000" y2="5"></line><text fill="#000" y="10" dy="0.71em">38.0</text></g><g class="tick" opacity="1" transform="translate(91.5,0)"><line stroke="#000" y2="5"></line><text fill="#000" y="10" dy="0.71em">38.5</text></g><g class="tick" opacity="1" transform="translate(182.5,0)"><line stroke="#000" y2="5"></line><text fill="#000" y="10" dy="0.71em">39.0</text></g><g class="tick" opacity="1" transform="translate(273.5,0)"><line stroke="#000" y2="5"></line><text fill="#000" y="10" dy="0.71em">39.5</text></g><g class="tick" opacity="1" transform="translate(364.5,0)"><line stroke="#000" y2="5"></line><text fill="#000" y="10" dy="0.71em">40.0</text></g><g class="tick" opacity="1" transform="translate(455.5,0)"><line stroke="#000" y2="5"></line><text fill="#000" y="10" dy="0.71em">40.5</text></g><g class="tick" opacity="1" transform="translate(546.5,0)"><line stroke="#000" y2="5"></line><text fill="#000" y="10" dy="0.71em">41.0</text></g><g class="tick" opacity="1" transform="translate(637.5,0)"><line stroke="#000" y2="5"></line><text fill="#000" y="10" dy="0.71em">41.5</text></g><g class="tick" opacity="1" transform="translate(728.5,0)"><line stroke="#000" y2="5"></line><text fill="#000" y="10" dy="0.71em">42.0</text></g><g class="tick" opacity="1" transform="translate(819.5,0)"><line stroke="#000" y2="5"></line><text fill="#000" y="10" dy="0.71em">42.5</text></g><g class="tick" opacity="1" transform="translate(910.5,0)"><line stroke="#000" y2="5"></line><text fill="#000" y="10" dy="0.71em">43.0</text></g></g><g fill="none" font-size="10" font-family="sans-serif" text-anchor="end"><path class="domain" stroke="#000" d="M-5,420.5000H0.5000V0.5000H-5"></path><g class="tick" opacity="1" transform="translate(0,400.5)"><line stroke="#000" x2="-5"></line><text fill="#000" x="-10" dy="0.32em">-0.4</text></g><g class="tick" opacity="1" transform="translate(0,356.5)"><line stroke="#000" x2="-5"></line><text fill="#000" x="-10" dy="0.32em">-0.3</text></g><g class="tick" opacity="1" transform="translate(0,311.5)"><line stroke="#000" x2="-5"></line><text fill="#000" x="-10" dy="0.32em">-0.2</text></g><g class="tick" opacity="1" transform="translate(0,266.5)"><line stroke="#000" x2="-5"></line><text fill="#000" x="-10" dy="0.32em">-0.1</text></g><g class="tick" opacity="1" transform="translate(0,221.5)"><line stroke="#000" x2="-5"></line><text fill="#000" x="-10" dy="0.32em">0.0</text></g><g class="tick" opacity="1" transform="translate(0,176.5)"><line stroke="#000" x2="-5"></line><text fill="#000" x="-10" dy="0.32em">0.1</text></g><g class="tick" opacity="1" transform="translate(0,132.5)"><line stroke="#000" x2="-5"></line><text fill="#000" x="-10" dy="0.32em">0.2</text></g><g class="tick" opacity="1" transform="translate(0,87.5)"><line stroke="#000" x2="-5"></line><text fill="#000" x="-10" dy="0.32em">0.3</text></g><g class="tick" opacity="1" transform="translate(0,42.5)"><line stroke="#000" x2="-5"></line><text fill="#000" x="-10" dy="0.32em">0.4</text></g></g><g fill="none" stroke-width="1.5"><path stroke="steelblue" d="M0,0L30.3333,70C60.6667,140,121.3333,280,182,325.8333C242.6667,371.6667,303.3333,323.3333,364,306.3333C424.6667,289.3333,485.3333,303.6667,546,322.5000C606.6667,341.3333,667.3333,364.6667,728,333.6667C788.6667,302.6667,849.3333,217.3333,879.6667,174.6667L910,132"></path></g></g></g></svg></div></div></body></html>

diff --git a/old3.js b/old3.js
@@ -1,0 +1,75 @@
+function main(datasetId = "my_dataset", tableId = "my_table") {
+  // [START bigquery_get_table]
+  // Import the Google Cloud client library
+  const { BigQuery } = require("@google-cloud/bigquery");
+  const bigquery = new BigQuery();
+  // const D3Node = require('d3-node')
+  // const d3n = new D3Node()      // initializes D3 with container element
+  const d3 = require("d3-node")().d3;
+  const d3nBar = require("d3node-barchart");
+  const d3nLine = require("d3node-linechart");
+  const output = require("d3node-output");
+  const { writeToPath } = require("@fast-csv/format");
+  const fs = require("fs");
+
+  async function getTable() {
+    // Retrieves table named "my_table" in "my_dataset".
+
+    /**
+     * TODO(developer): Uncomment the following lines before running the sample
+     */
+    const projectId = "starry-argon-368412";
+    const datasetId = "news";
+    const tableId = "predictions";
+
+    // Retrieve table reference
+    const dataset = bigquery.dataset(datasetId);
+    const [table] = await dataset.table(tableId).get();
+
+    const sqlQuery = `with
+        sentimentScores as (
+          SELECT 
+            extract(week from timestamp_seconds(cast(timestamp as int64))) as week, 
+            sentiment, cast(timestamp as int64) as intval,
+            case sentiment
+              when 'POSITIVE' then score
+              else -1*score
+              end
+              as sentimentscore
+              FROM \`${projectId}.${datasetId}.${tableId}\` order by week asc)
+      select week as key, avg(sentimentscore) as value from sentimentScores group by week order by week asc 
+              `;
+
+    const options = {
+      query: sqlQuery,
+      // Location must match that of the dataset(s) referenced in the query.
+    };
+
+    const [rows] = await bigquery.query(options);
+    console.log("Table:");
+    //console.log(table.getRows());
+    console.log(rows);
+    // for (let i = 0; i < rows.length; i++){
+    //   timestamps[i] = rows[i]['timestamp']
+    //   sentiments[i] = rows[i]['sentiment']
+    // }
+    // console.log(timestamps);
+    //data = d3.json(rows)
+    //console.log(typeof data)
+    // const path = `data/bardata.csv`;
+    // //const data = [{ name: 'Stevie', id: 10 }, { name: 'Ray', id: 20 }];
+    // const options2 = { headers: true, quoteColumns: true };
+
+    // writeToPath(path, rows, options)
+    //   .on("error", (err) => console.error(err))
+    //   .on("finish", () => console.log("Done writing."));
+
+    // const csvString = fs.readFileSync("data/bardata.csv").toString();
+    // const data = d3.csvParse(csvString);
+    //output('./output/sentimentbar', d3nBar({ data: data }));
+    output("output/sentimentline", d3nLine({ data: rows }));
+  }
+  getTable();
+  // [END bigquery_get_table]
+}
+main(...process.argv.slice(2));
